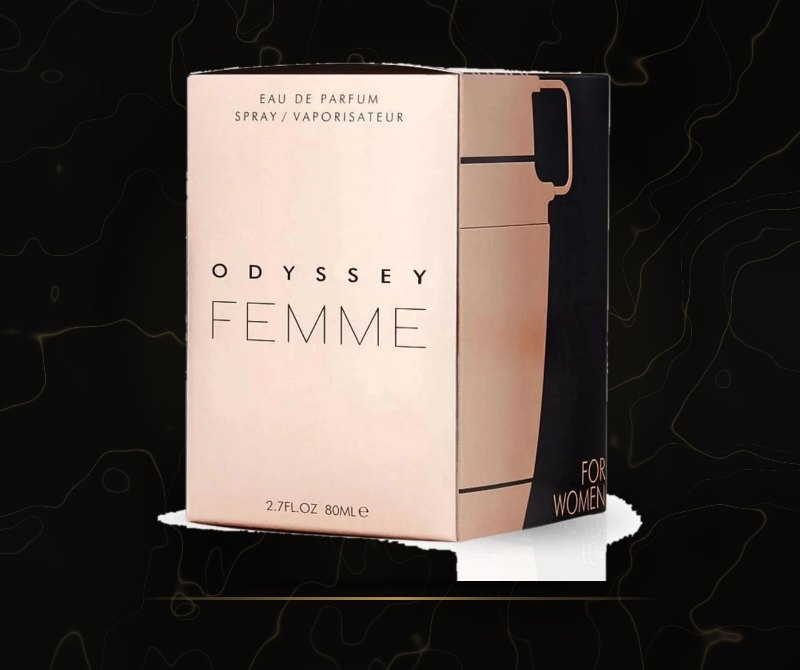
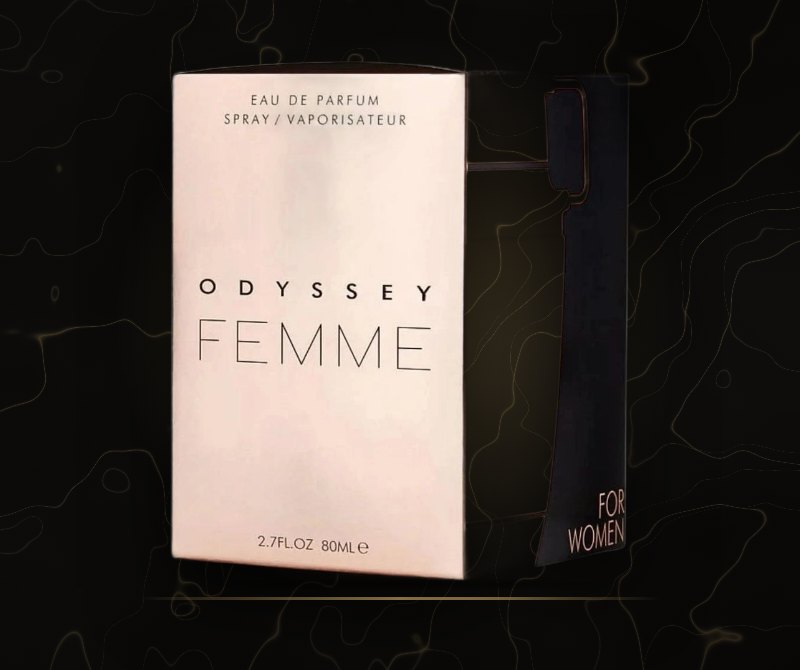
Fotos Scentia con recorte de fondo por IA: 24 perfumes enteros

Changed region(s): [[0.1875, 0.0896, 0.8125, 0.8955], [0.75, 0.1194, 0.7812, 0.1791]]

diff --git a/fotos_finales.py b/fotos_finales.py
@@ -1,5 +1,6 @@
 """Con la elección de la página "Elegir fotos" arma la foto Scentia de cada perfume entero.
-Uso: python fotos_finales.py "FOTOS c180:3 c141:1 ..."   (0 = ninguna: queda la foto del PDF)
+Uso: python fotos_finales.py "FOTOS c180:3 c141:1 ..."   (0 = ninguna: queda la foto del PDF;
+"d156:1s" = recorte simple de fondo blanco, para cuando rembg se come parte de la caja)
 Guarda enteros/fotos/<clave>.jpg y las anota en fotos_elegidas.json (por nombre, no por id:
 los id cambian cada mes, los nombres no). enteros.py las vuelve a aplicar al actualizar el mes."""
 import json
@@ -11,7 +12,7 @@ from playwright.sync_api import sync_playwright
 AQUI = Path(__file__).parent
 sys.path.insert(0, str(AQUI.parent / "posts"))
 import bienvenida as B  # noqa: E402
-from prototipo_fotos import sin_fondo, png_uri, ESCENA  # noqa: E402
+from prototipo_fotos import sin_fondo, sin_fondo_simple, png_uri, ESCENA  # noqa: E402
 
 ELEGIDAS = AQUI / "fotos_elegidas.json"
 
@@ -37,17 +38,12 @@ def main(texto):
     B.LOGO = B.uri(B.FLY / "logo-scentia.png")
     fondo = AQUI.parent / "posts/prototipo/_marmol_sq.png"
     B.OUT = AQUI / "_candidatas"  # B.render guarda acá el PNG
-    revisar = []
     with sync_playwright() as pw:
-        for pid, n in re.findall(r"([cd]\d{3}):(\d)", texto):
+        for pid, n, simple in re.findall(r"([cd]\d{3}):(\d)(s?)", texto):
             c, n = cands[pid], int(n)
             if n == 0:
                 continue
-            foto = sin_fondo(AQUI / "_candidatas" / c["fotos"][n - 1]["archivo"])
-            # si casi no se borró nada, el fondo no era liso: la foto entra con su fondo y conviene mirarla
-            alfa = foto.getchannel("A").histogram()
-            if alfa[0] / sum(alfa) < 0.03:
-                revisar.append(c["nombre"])
+            foto = (sin_fondo_simple if simple else sin_fondo)(AQUI / "_candidatas" / c["fotos"][n - 1]["archivo"])
             slug = re.sub(r"[^a-z0-9]+", "-", f'{c["genero"]}-{c["nombre"]}-{c["ml"]}'.lower()).strip("-")
             html = B.pagina(800, 670, B.uri(fondo), ESCENA.format(pb=70, gy=40, gw=620, foto=png_uri(foto), mw=640, mh=520, bw=420, lw=520))
             B.render(pw, slug, 800, 670, html)
@@ -60,8 +56,6 @@ def main(texto):
     datos = json.loads((AQUI / "enteros/enteros.json").read_text(encoding="utf-8"))
     (AQUI / "enteros/enteros.json").write_text(json.dumps(aplicar(datos), ensure_ascii=False, indent=0), encoding="utf-8")
     print(len(elegidas), "perfumes con foto Scentia")
-    for r in revisar:
-        print("REVISAR (fondo no liso):", r)
 
 
 if __name__ == "__main__":
